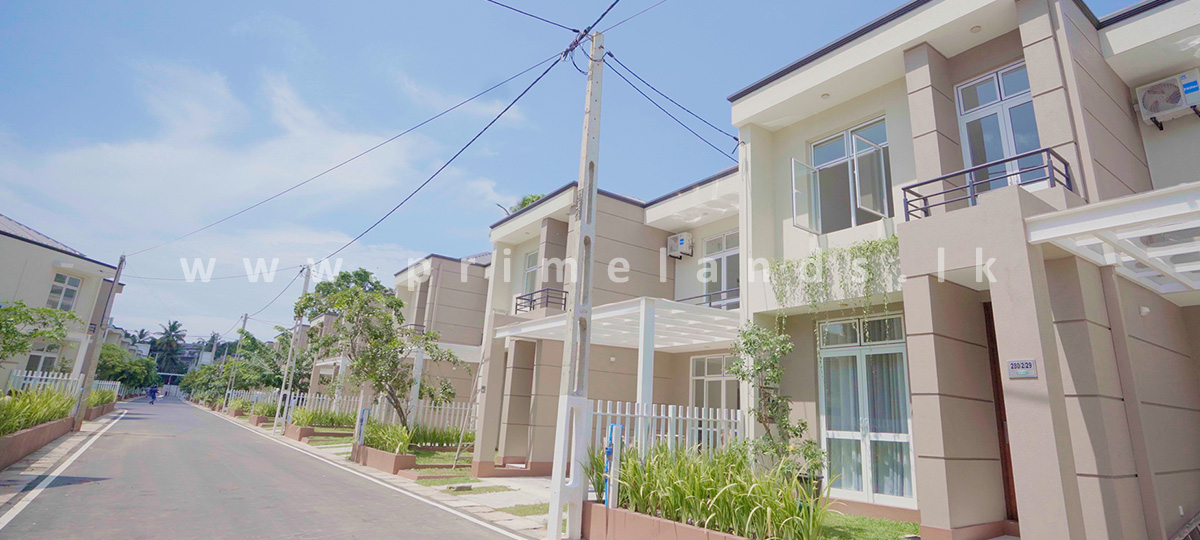
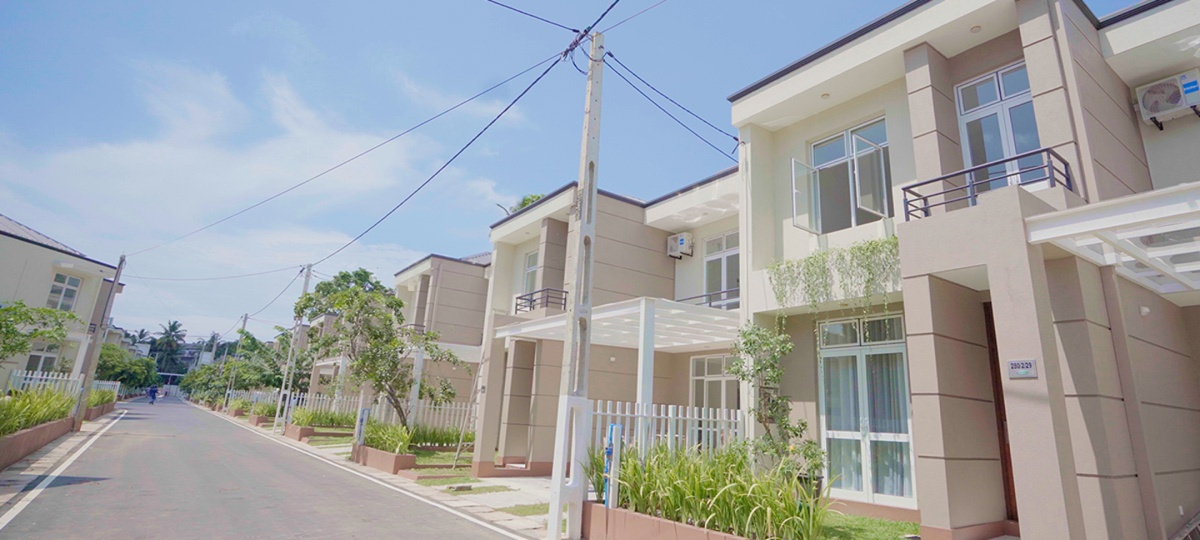
changes in UI

diff --git a/frontend/src/pages/Home.jsx b/frontend/src/pages/Home.jsx
@@ -15,7 +15,6 @@ function Home() {
         boxShadow: "0 2px 10px rgba(0,0,0,0.2)"
       }}>
         <div className="container" style={{ display: "flex", justifyContent: "space-between", alignItems: "center" }}>
-          <div style={{ color: "white", fontSize: "24px", fontWeight: "700" }}>HSMS</div>
           <nav style={{ display: "flex", gap: "30px" }}>
             <a href="#home" style={{ color: "white", fontWeight: "500" }}>Home</a>
             <a href="#about" style={{ color: "white", fontWeight: "500" }}>About Us</a>
@@ -139,9 +138,25 @@ function Home() {
 
 function FeatureCard({ title, desc }) {
   return (
-    <div className="glass-card" style={{ padding: "30px", transition: "var(--transition)", cursor: "default" }}
-      onMouseEnter={(e) => e.currentTarget.style.transform = "translateY(-10px)"}
-      onMouseLeave={(e) => e.currentTarget.style.transform = "translateY(0)"}
+    <div className="glass-card" style={{ 
+      padding: "30px", 
+      transition: "var(--transition)", 
+      cursor: "default",
+      border: "1px solid rgba(0, 0, 0, 0.15)",
+      backgroundColor: "rgba(255, 255, 255, 0.8)",
+      borderRadius: "12px",
+      boxShadow: "0 4px 6px rgba(0,0,0,0.05)"
+    }}
+      onMouseEnter={(e) => {
+        e.currentTarget.style.transform = "translateY(-10px)";
+        e.currentTarget.style.boxShadow = "0 10px 20px rgba(0,0,0,0.1)";
+        e.currentTarget.style.borderColor = "var(--primary)";
+      }}
+      onMouseLeave={(e) => {
+        e.currentTarget.style.transform = "translateY(0)";
+        e.currentTarget.style.boxShadow = "0 4px 6px rgba(0,0,0,0.05)";
+        e.currentTarget.style.borderColor = "rgba(0, 0, 0, 0.15)";
+      }}
     >
       <h4 style={{ marginBottom: "15px", color: "var(--primary)" }}>{title}</h4>
       <p style={{ color: "var(--text-muted)", fontSize: "15px" }}>{desc}</p>
